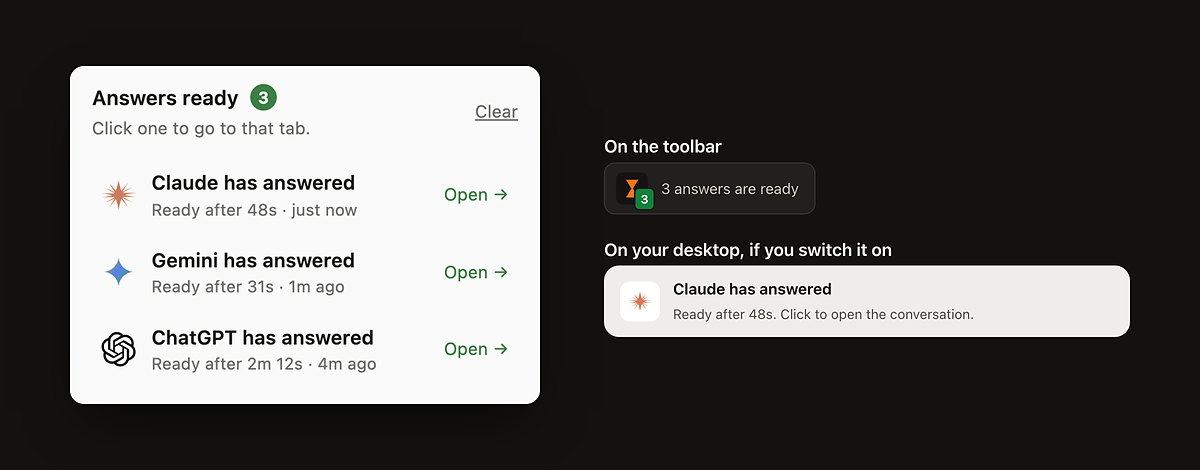
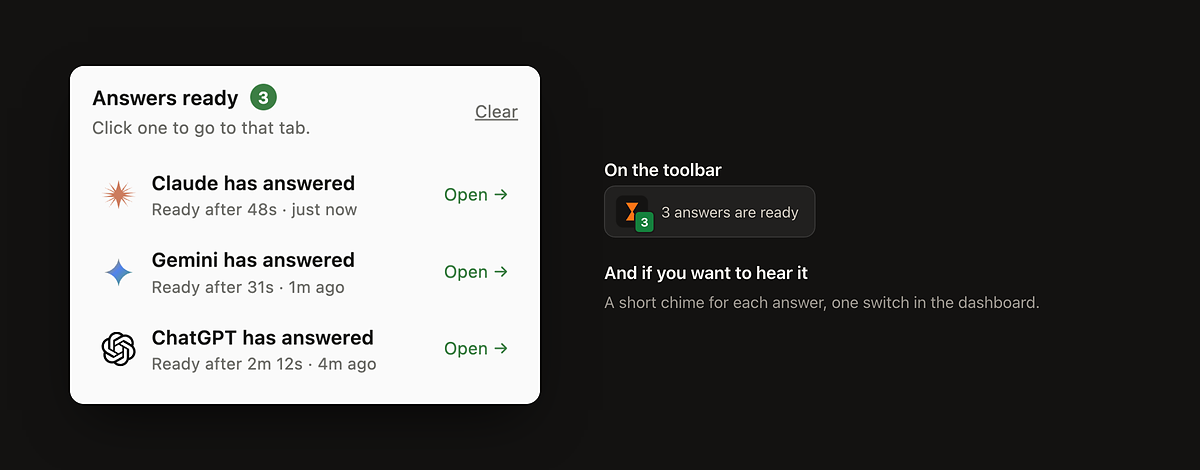
docs(whileai): answers are announced in the popup and by a chime; no desktop notification, no standard-mode switch
Follows the extension: the desktop notification for answers and the
"standard mode" checkbox were removed. FAQ, privacy page, figure caption and
the notify and panel images updated. selectors.json untouched (v19).

diff --git a/whileai/index.html b/whileai/index.html
@@ -88,10 +88,10 @@
   your real work, and get called back when the answer lands.</p>
 
   <figure>
-    <img src="img/notify.png" alt="The Answers ready list in the WhileAI popup: Claude has answered, ready after 48 seconds; Gemini has answered; ChatGPT has answered. Beside it, the toolbar icon with a green 3 and an optional desktop notification." width="1200" height="470">
+    <img src="img/notify.png" alt="The Answers ready list in the WhileAI popup: Claude has answered, ready after 48 seconds; Gemini has answered; ChatGPT has answered. Beside it, the toolbar icon with a green 3." width="1200" height="470">
     <figcaption>Each answer that lands while you are elsewhere is listed at the bottom
     of the popup, and counted on the toolbar icon. Click one and you are in that
-    conversation. A short chime and a desktop notification are optional switches.
+    conversation. A short chime for each answer is an optional switch.
     Nothing is listed for an answer you were already looking at.</figcaption>
   </figure>
 </section>
@@ -185,9 +185,9 @@
     <details><summary>Does it work when the AI tab is in the background, or in another window?</summary>
       <p>Yes, that is the normal case. Your prompt is delivered to tabs you are not looking at, and the answers-ready list tells you when each one has answered. Chrome slows background tabs down a great deal; WhileAI times its own steps on a clock Chrome does not slow, so a tab you have not touched for an hour still receives the prompt straight away.</p></details>
     <details><summary>How do I find out that an answer is ready?</summary>
-      <p>Three ways, and only the first is always on. The WhileAI popup has an <b>Answers ready</b> list at the bottom: one line per answer that landed while you were not looking at that tab, naming the AI and how long it took. Click a line and you are in that conversation, and the line goes away. The toolbar icon shows the same count in green. If you want more, the dashboard has a switch for a short chime that plays once per answer, and one for a desktop notification. There is a "Send a test" button next to them, so you can check that your computer lets Chrome make a sound and show notifications.</p></details>
+      <p>The WhileAI popup has an <b>Answers ready</b> list at the bottom: one line per answer that landed while you were not looking at that tab, naming the AI and how long it took. Click a line and you are in that conversation, and the line goes away. The toolbar icon shows the same count in green. If you also want to hear it, the dashboard has a switch for a short chime that plays once per answer, with a "Test the chime" button next to it.</p></details>
     <details><summary>DeepSeek has "DeepThink" and "Search" switched on. Does my prompt go out in those modes?</summary>
-      <p>No. DeepSeek remembers those two buttons from your last visit, and a slow thinking mode is rarely what you want when the same prompt is going to several AIs. Before WhileAI sends a prompt there on your behalf it switches both off, the same click you would make, so the prompt goes out in the standard mode. It only does this on prompts it delivers, never while you are typing yourself. If you want the modes left alone, untick "Send in each AI's standard mode" in the popup.</p></details>
+      <p>No. DeepSeek remembers those two buttons from your last visit, and a slow thinking mode is rarely what you want when the same prompt is going to several AIs. Before WhileAI types a prompt there on your behalf it switches both off, the same click you would make, so the prompt goes out in the standard mode. It only does this on prompts it delivers, never while you are typing in DeepSeek yourself.</p></details>
     <details><summary>Will it send my prompt to an AI I switched off?</summary>
       <p>No. There is one switch per AI and an AI that is off receives nothing. Closing an AI's tab switches it off too. On the free plan a prompt reaches two other AIs at a time; if you switched on more, a notice tells you by name which ones were left out.</p></details>
     <details><summary>What do writing, waiting and reading time mean, and how can it know?</summary>

diff --git a/whileai/privacy/index.html b/whileai/privacy/index.html
@@ -62,8 +62,8 @@
   <p>Some sites remember a slower mode from your last visit (DeepSeek keeps
   "DeepThink" and "Search" switched on). Before whileAI sends a prompt to such a
   site on your behalf it clicks those buttons off, so the prompt goes out in
-  the standard mode. It changes nothing else on the page, and the popup has a
-  switch to turn this off.</p>
+  the standard mode. It changes nothing else on the page, and it never does this
+  while you are typing in that site yourself.</p>
 
   <h2>What whileAI never does</h2>
   <ul>
